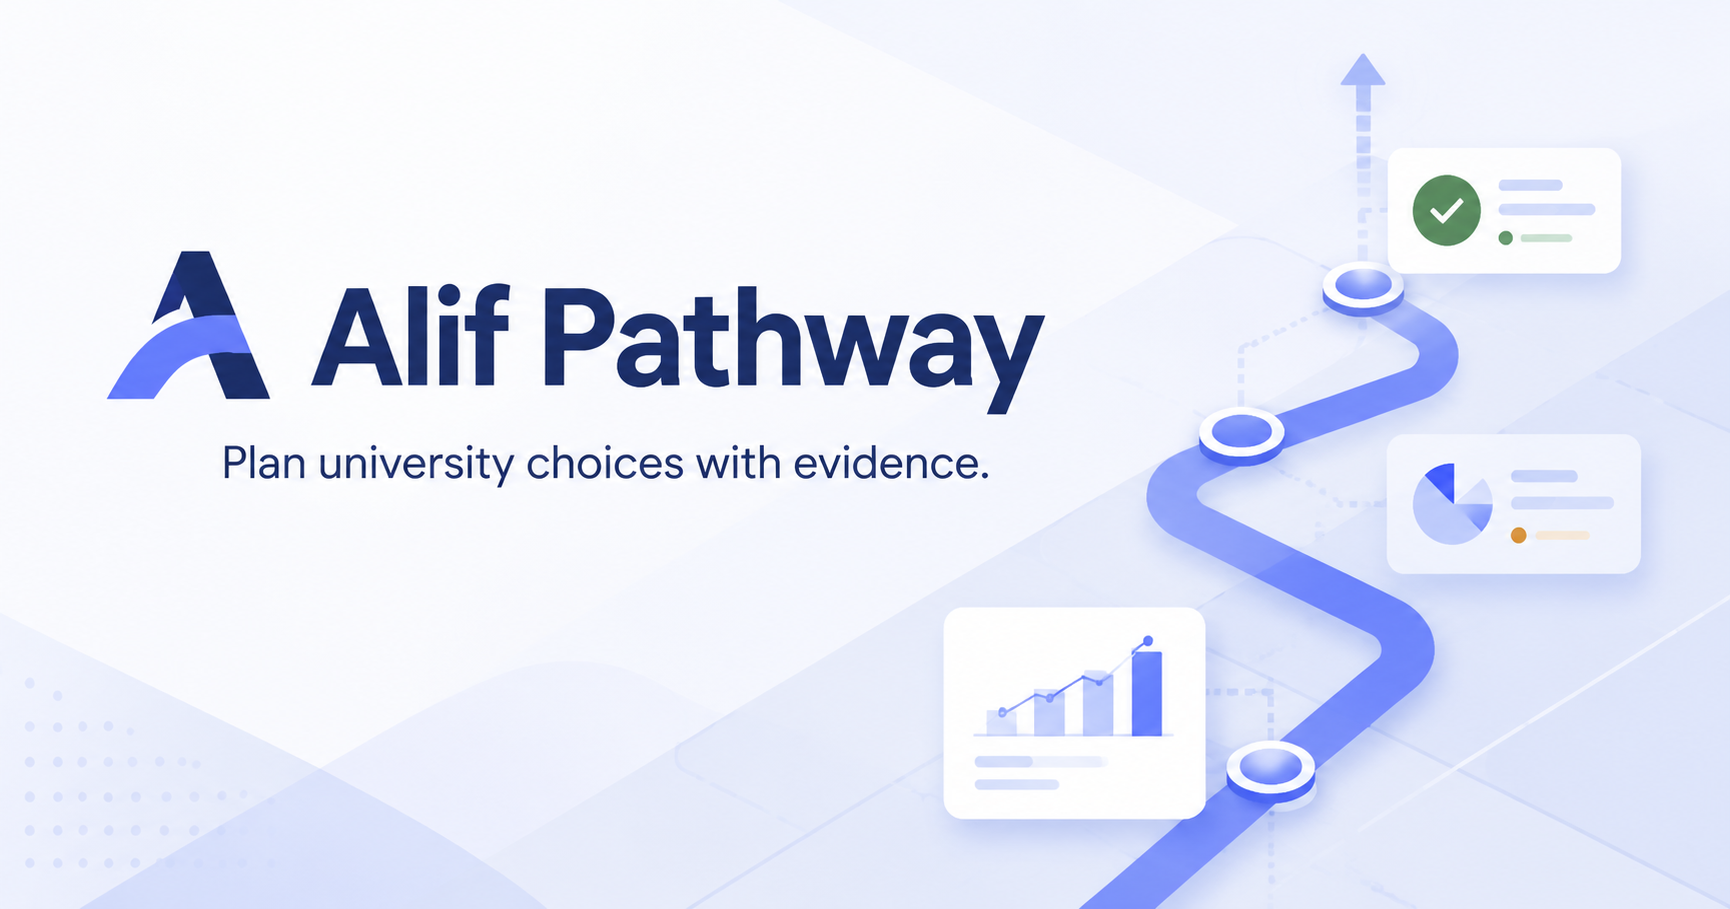
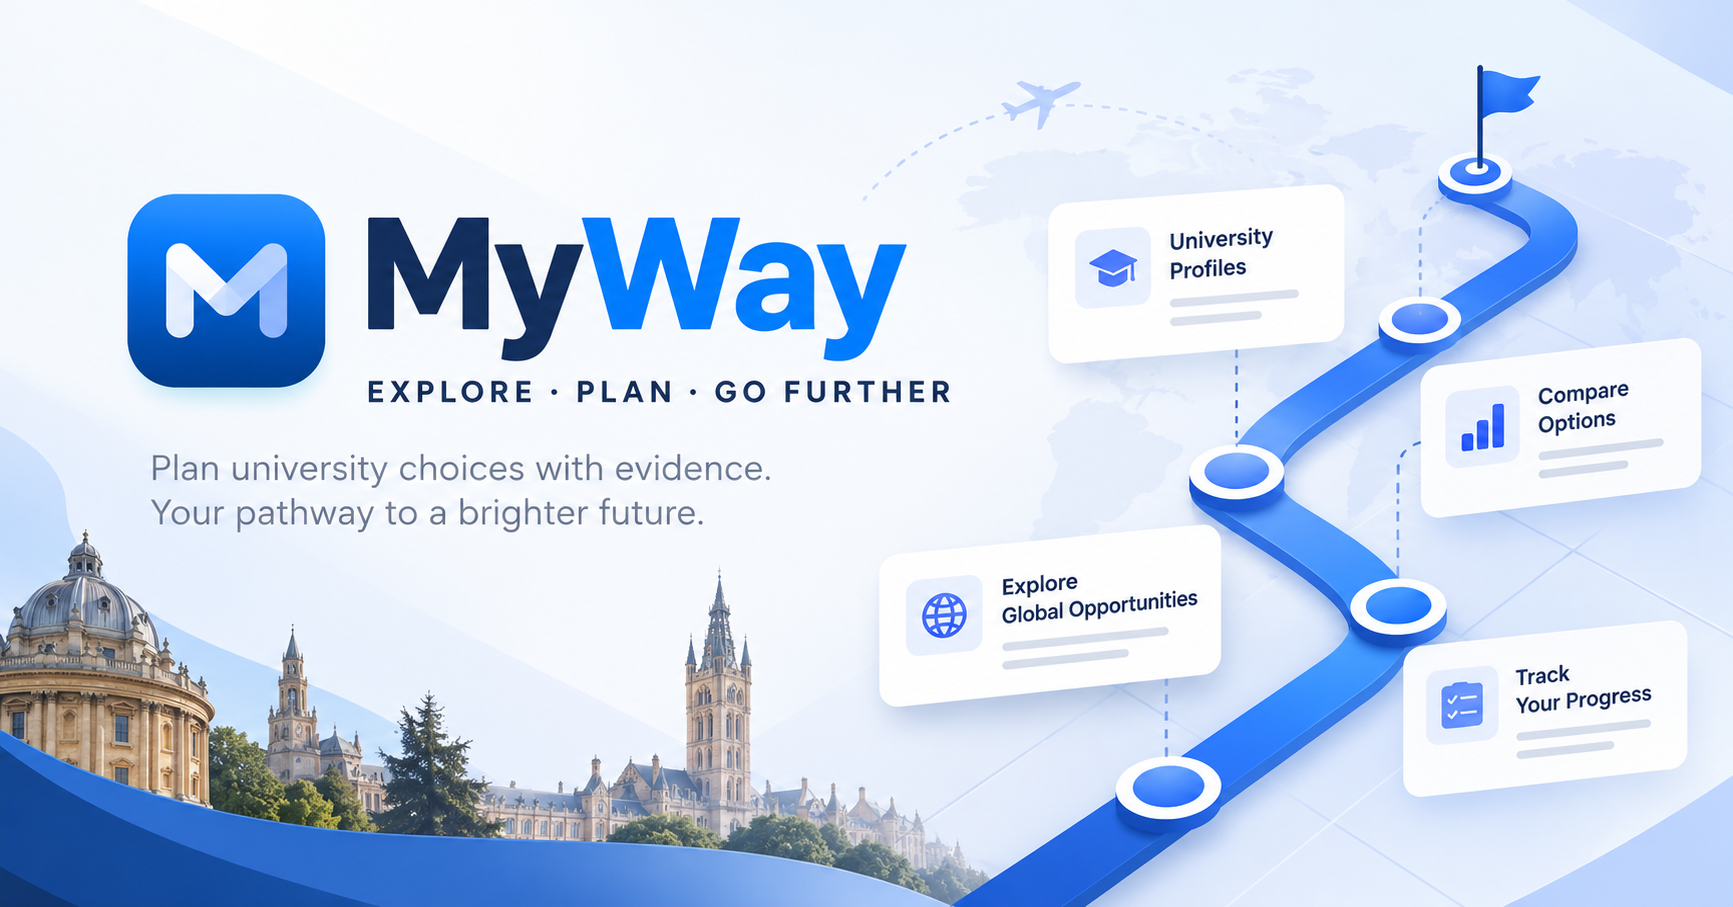
Update layout, og
Restored from original MyWay development commit 6bf4b3129abeaff851775f4141d53952a1d6fe84.
Original title: Update Site source
Original development dates and author labels retained; contact emails anonymized.
Public paths filtered and production identifiers sanitized.
Descriptive title derived from the files changed in the original commit.

diff --git a/app/layout.tsx b/app/layout.tsx
@@ -3,18 +3,20 @@ import "./globals.css";
 
 export const metadata: Metadata = {
   title: "MyWay",
-  description: "A Europe-first business university discovery and planning platform.",
-  metadataBase: new URL("https://alif-pathway.smalhi2025.chatgpt.site"),
+  description: "Explore. Plan. Go Further.",
+  metadataBase: new URL("https://mywaypath.com"),
+  alternates: { canonical: "/" },
   openGraph: {
+    url: "/",
     title: "MyWay",
-    description: "Plan university choices with evidence.",
-    images: [{ url: "/og.png", width: 1730, height: 909, alt: "MyWay" }],
+    description: "Explore. Plan. Go Further.",
+    images: [{ url: "/og.png?v=7659380fd28a", width: 1733, height: 907, alt: "MyWay" }],
   },
   twitter: {
     card: "summary_large_image",
     title: "MyWay",
-    description: "Plan university choices with evidence.",
-    images: ["/og.png"],
+    description: "Explore. Plan. Go Further.",
+    images: ["/og.png?v=7659380fd28a"],
   },
   icons: {
     icon: "/myway-mark.png",
